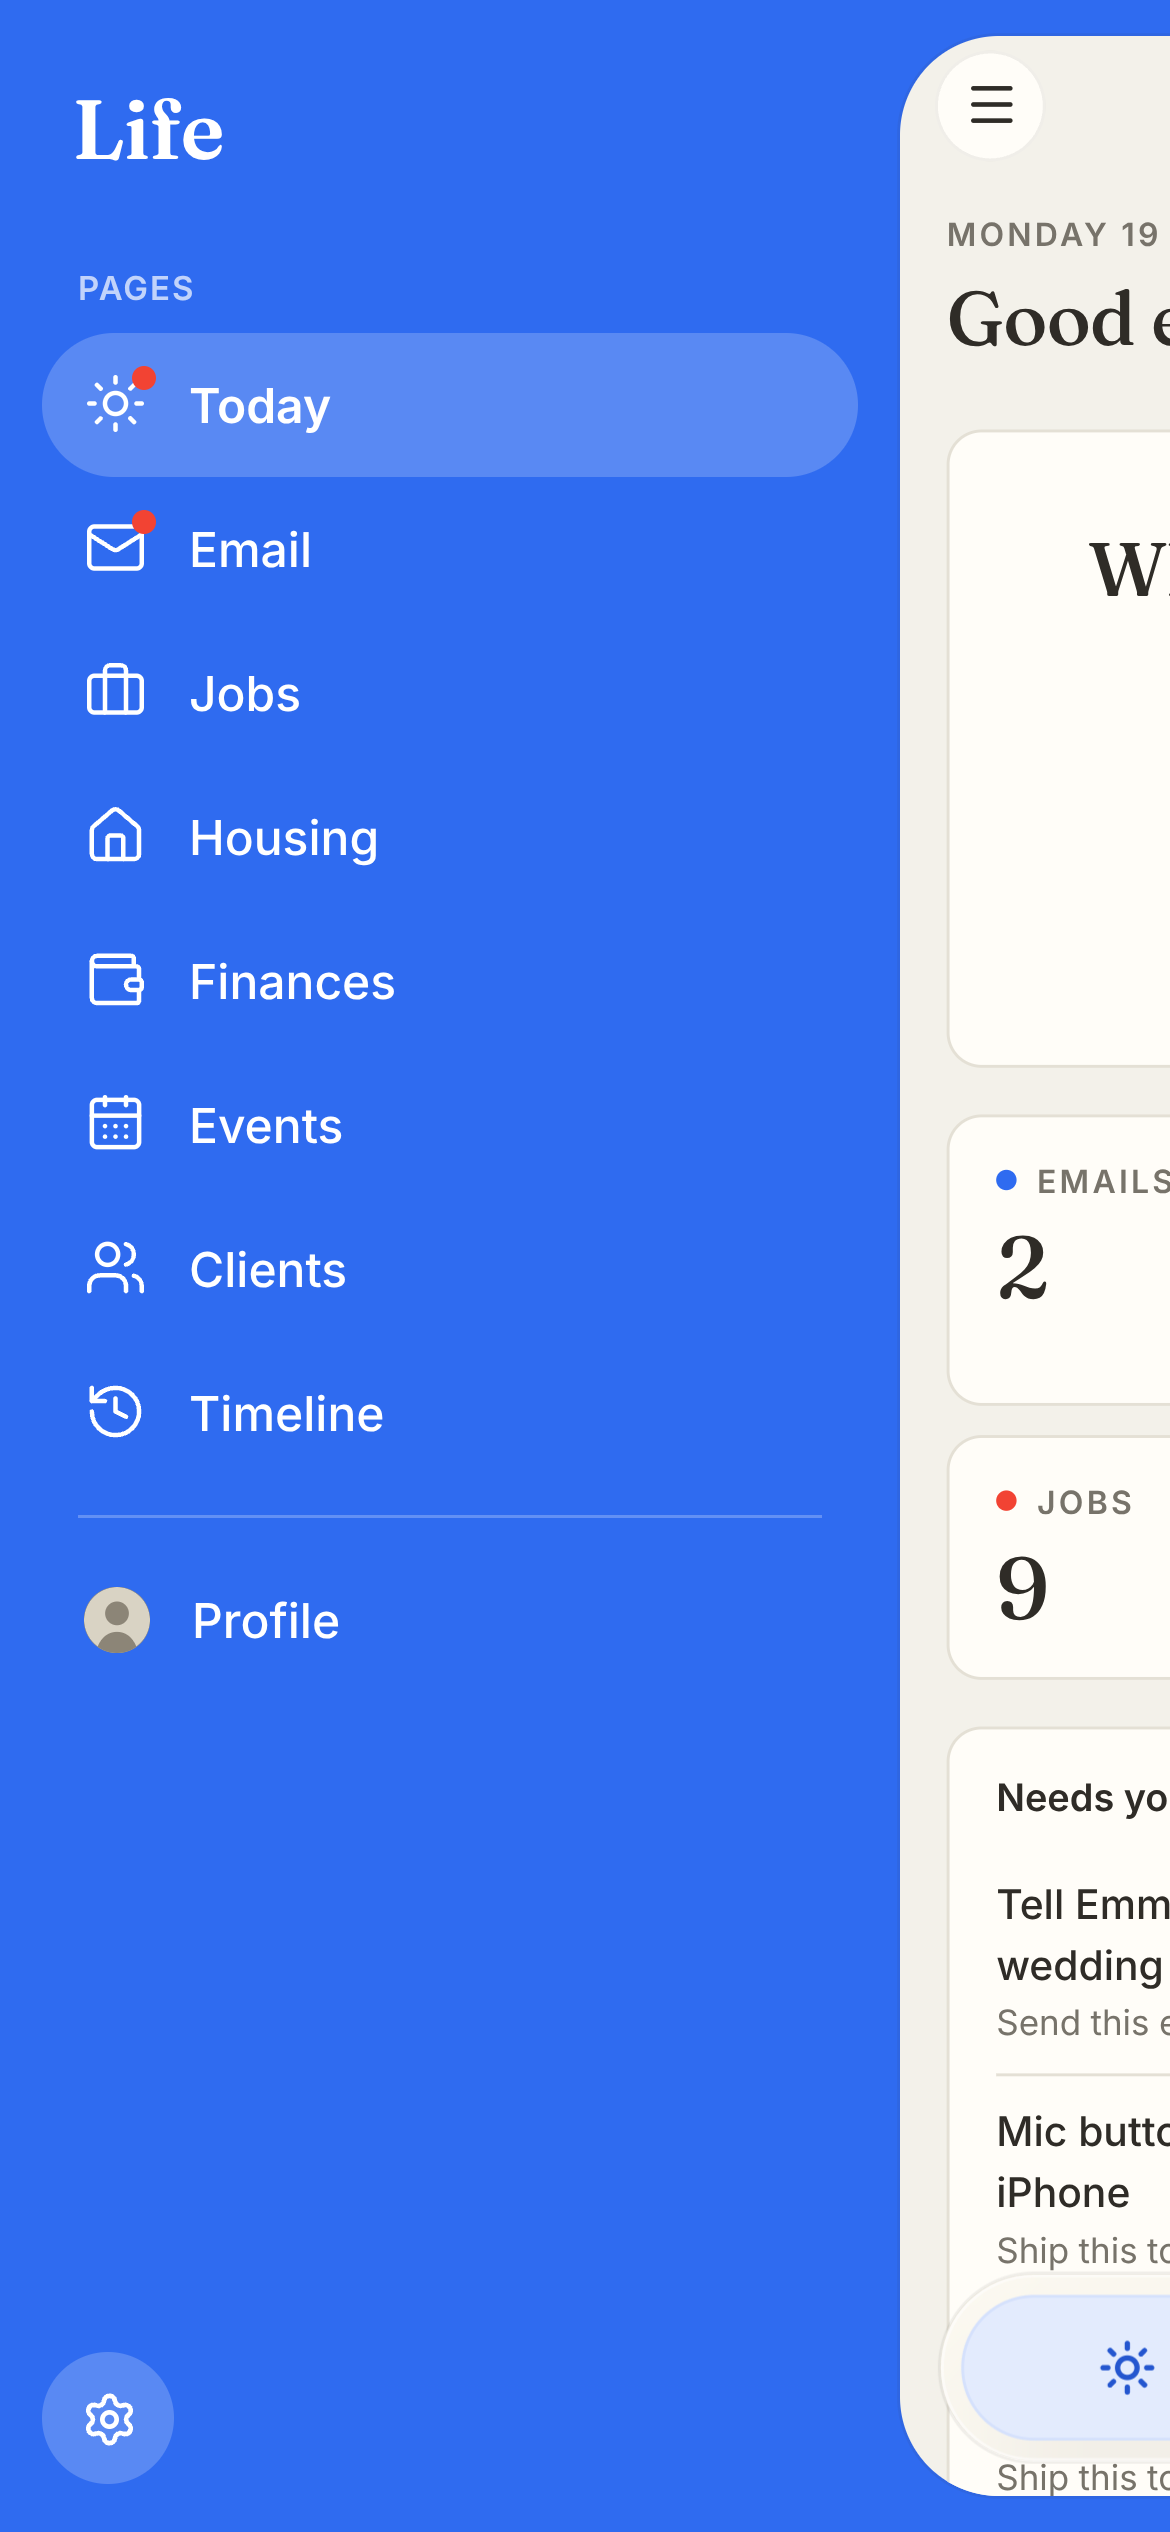
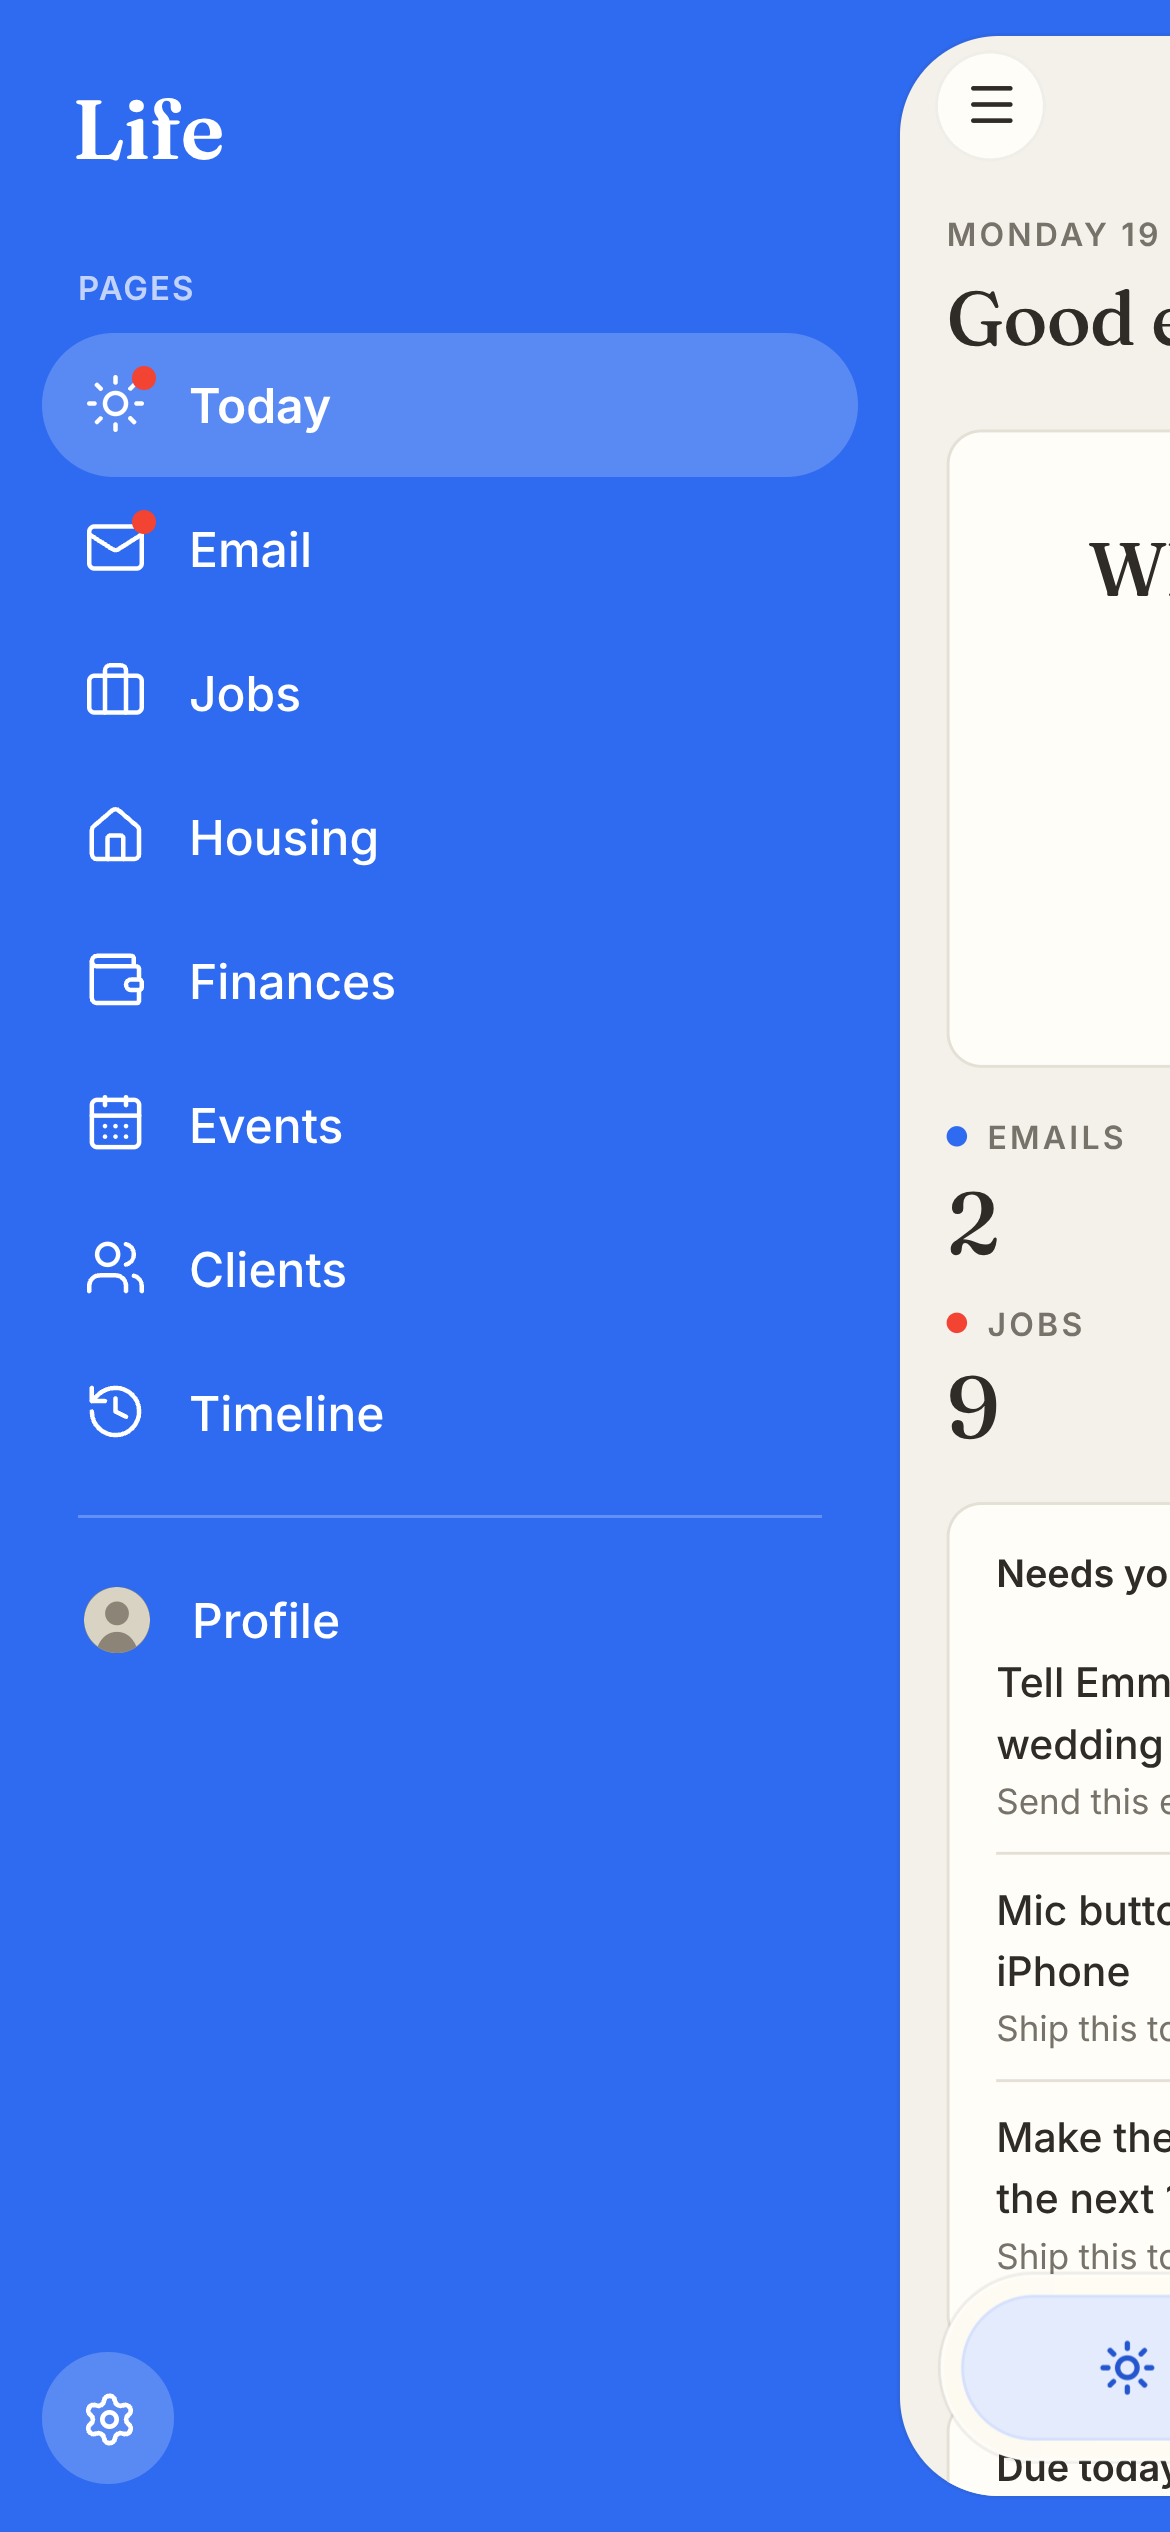
Number tiles become plain numbers, no boxes (Graham, 2026-10-19)
Claude-Session: https://claude.ai/code/session_014Egirv3gvbTzrnHaoEqViP

diff --git a/src/styles.css b/src/styles.css
@@ -1074,3 +1074,8 @@ body[data-menu="green"] { --menu-bg: var(--green); --menu-fg: #fff; --menu-muted
 .send-it { display: flex; flex-direction: column; gap: 8px; padding-top: 4px; }
 .tile-hint { margin: -4px 0 6px; }
 .pill.s-approved { background: transparent; color: var(--tomato); border: 1px solid var(--tomato); }
+
+/* number tiles are plain numbers on the page, no boxes (Graham, 2026-10-19) */
+.tile.stat, .tile.stat.num-tile { background: none; border: 0; border-radius: 0; padding: 0; }
+button.tile.stat:hover, a.tile.stat:hover { background: none; opacity: .75; }
+.num-tile.on .big { color: var(--blue-ink); }
